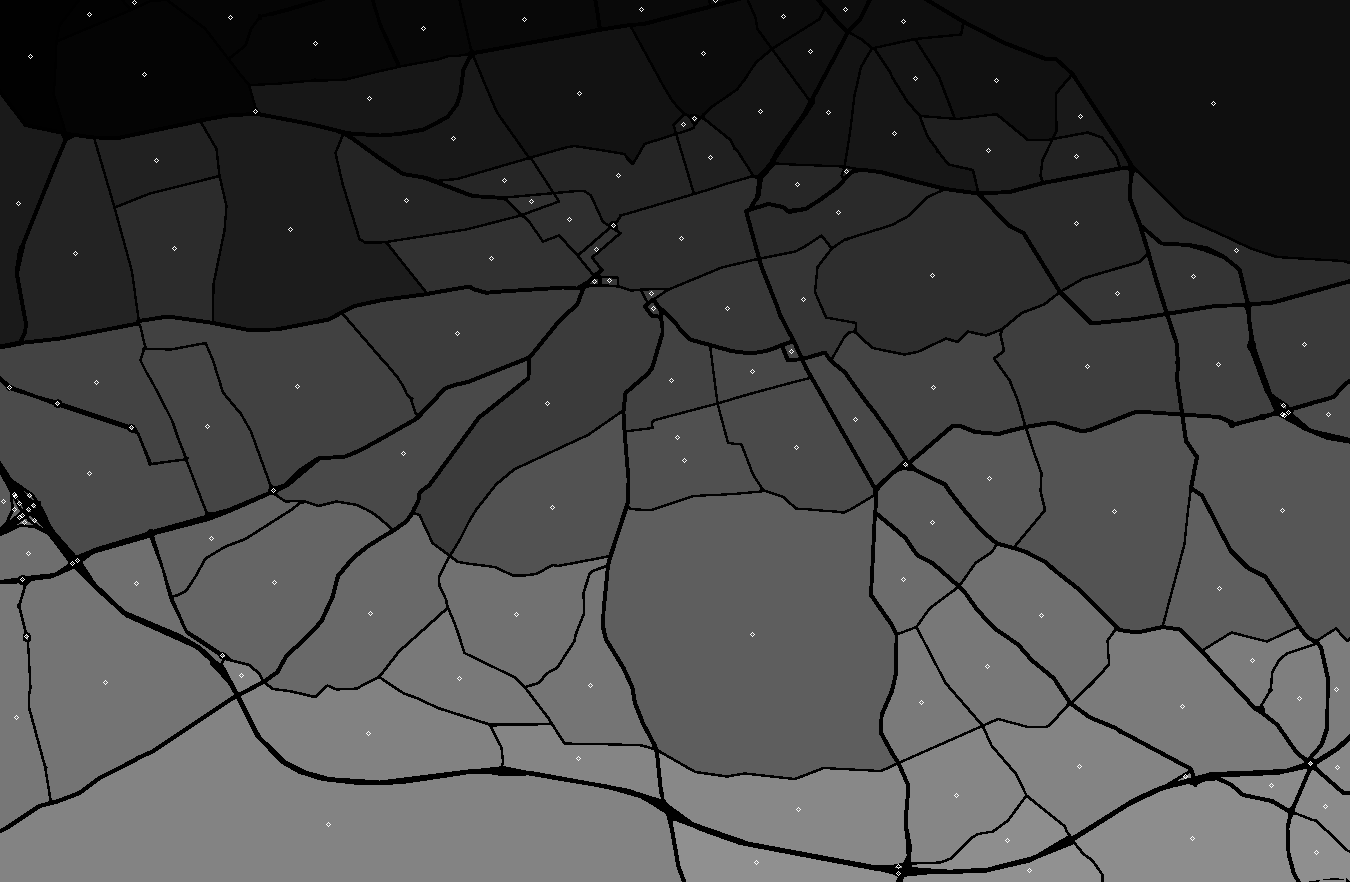
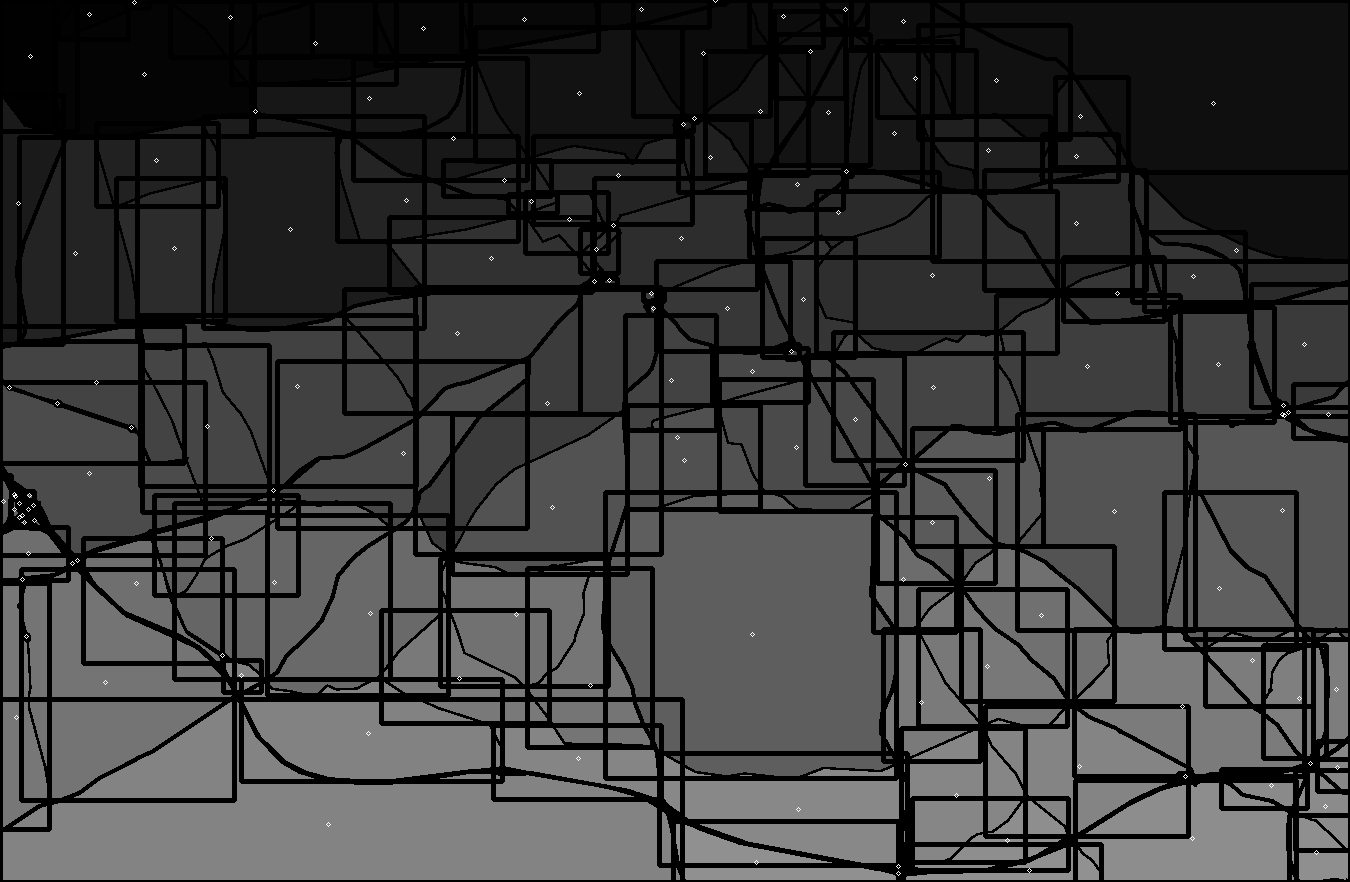
add bounding boxes

Changed region(s): [[0.0, 0.0918, 1.0, 1.0]]

diff --git a/main.py b/main.py
@@ -20,6 +20,9 @@ stats = output[2]
 # The fourth cell is the centroid matrix
 centroids = output[3]
 
+for stat in stats:
+    cv2.rectangle(labels, (stat[0], stat[1]), (stat[2] + stat[0], stat[3] + stat[1]), (0, 255, 0), 3)
+
 for centroid in centroids:
     cv2.circle(labels, (int(centroid[0]), int(centroid[1])), 2, (255, 0, 0))
 
